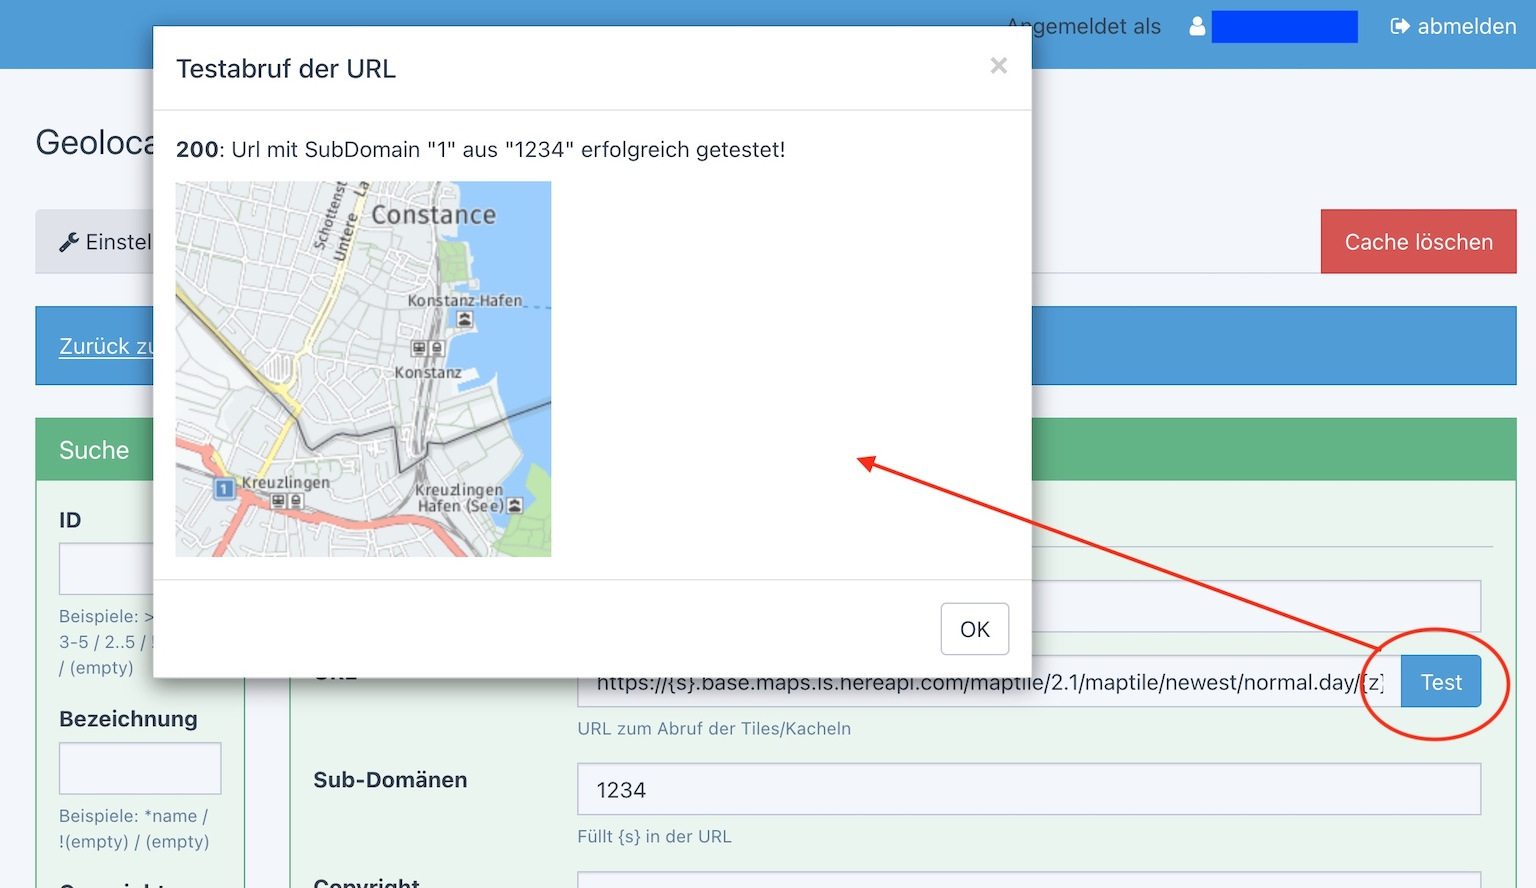
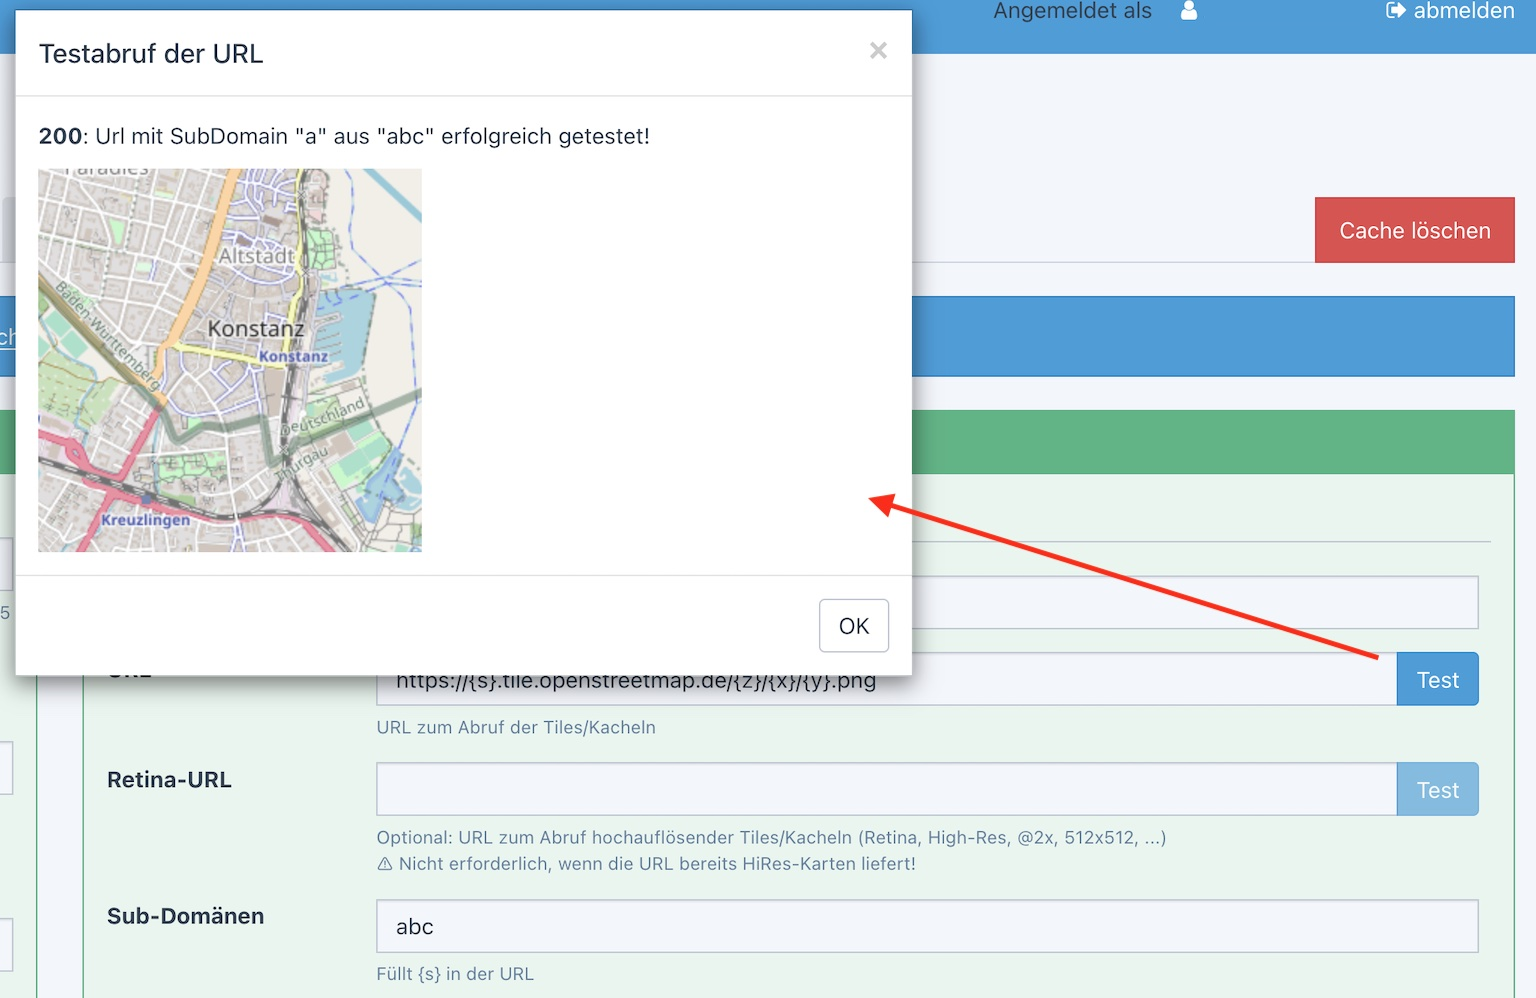
Zusätzliche Retina-URL (#118)
* Zweite URL (Retina)

* Zweite URL (Retina)

* Zweite URL (Retina)

* Zweite URL (Retina)

* Zweite URL (Retina)

* Zweite URL (Retina)

* Zweite URL (Retina)

* Update CHANGELOG.md

diff --git a/install/geolocation.js b/install/geolocation.js
@@ -250,8 +250,8 @@ Geolocation.Classes.Map = class {
         if( 0 == layerNames.length ) return;
 
         // Layer einfügen
-        // NOTE: hier wird jetzt nicht mehr geprüft, ob es mindestens eine 
-        // Karte gibt, die "active" gesetzt ist.
+        // NOTE: hier wird jetzt nicht mehr geprüft, ob es mindestens eine Karte gibt, die "active" gesetzt ist.
+        // NOTE: hier auch nicht geprüft, ob es mindestens eine (Basis-)karte gibt.
         let layer, label, layertype, tile, geolayer, active;
         if( layerNames.length > 1 ) this.layerControl.addTo( this.map );
         for( tile in mapset ){
@@ -261,7 +261,7 @@ Geolocation.Classes.Map = class {
             delete mapset[tile].layer;
             layertype = mapset[tile].type || 'b';
             delete mapset[tile].type;
-            layer = L.tileLayer( `index.php?${Geolocation.default.keyLayer}=${geolayer}&z={z}&x={x}&y={y}`,mapset[tile] );
+            layer = L.tileLayer( `index.php?${Geolocation.default.keyLayer}=${geolayer}&z={z}&x={x}&y={y}&r={r}`,mapset[tile] );
             active = true === mapset[tile].active;
             delete mapset[tile].active;
             if( active ) {

diff --git a/lib/yform/dataset/Layer.php b/lib/yform/dataset/Layer.php
@@ -59,6 +59,7 @@ use rex_yform_value_abstract;
 
 use function count;
 use function is_bool;
+use function is_string;
 use function strlen;
 
 /**
@@ -67,6 +68,7 @@ use function strlen;
  * aus der Datentabelle rex_geolocation_layer
  * @property string $name
  * @property string $url
+ * @property string $retinaurl
  * @property string $subdomain
  * @property string $attribution
  * @property string $layertype
@@ -83,7 +85,7 @@ class Layer extends rex_yform_manager_dataset
      *
      * @api
      */
-    public const FILE_PATTERN = '{x}-{y}-{z}.{suffix}';
+    public const FILE_PATTERN = '{x}-{y}-{z}-{r}.{suffix}';
 
     // dataset-spezifisch
 
@@ -241,7 +243,7 @@ class Layer extends rex_yform_manager_dataset
      * Angabe von Subdomains ohne {s} in der Url ist egal
      *
      * Die Parameter sind so belegt:
-     *  - Array mit den Feldnamen ('url', 'subdomain')
+     *  - Array mit den Feldnamen
      *  - Array mit den aktuellen Werten für 'url' und 'subdomain'
      *  - Rückgabewert als Vorbelegung (sollte leer sein), ignorieren
      *  - Instanz der aktiven Validator-Klasse
@@ -255,7 +257,13 @@ class Layer extends rex_yform_manager_dataset
      */
     public static function verifySubdomain($fields, $values, $return, $self, $elements): bool
     {
-        return false !== strpos($values['url'], '{s}') && '' === trim($values['subdomain']);
+        $urlFieldName = $fields[0];
+        $subdomainFieldName = $fields[1];
+
+        $urlValue = trim($values[$urlFieldName]);
+        $subdomainValue = trim($values[$subdomainFieldName]);
+
+        return false !== strpos($urlValue, '{s}') && '' === $subdomainValue;
     }
 
     /**
@@ -277,8 +285,12 @@ class Layer extends rex_yform_manager_dataset
      */
     public static function verifyUrl($field, $value, $return, $self, $elements): bool
     {
+        $url = trim($value);
+        if ('' === $url) {
+            return false;
+        }
         $url = str_replace(['{', '}'], '', $value);
-        $xsRegEx_url = '/^(?:http[s]?:\/\/)[a-zA-Z0-9][a-zA-Z0-9._-]*\.(?:[a-zA-Z0-9][a-zA-Z0-9._-]*\.)*[a-zA-Z]{2,20}(?:\/[^\\/\:\*\?\"<>\|]*)*(?:\/[a-zA-Z0-9_%,\.\=\?\-#&@]*)*$' . '/';
+        $xsRegEx_url = '/^(?:http[s]?:\/\/)[a-zA-Z0-9][a-zA-Z0-9._-]*\.(?:[a-zA-Z0-9][a-zA-Z0-9._-]*\.)*[a-zA-Z]{2,20}(?:\/[^\\/\:\*\?\"<>\|]*)*(?:\/[a-zA-Z0-9_%,\.\=\?\-#&@]*)*$/';
         return 0 === preg_match($xsRegEx_url, $url);
     }
 
@@ -416,6 +428,10 @@ class Layer extends rex_yform_manager_dataset
         if (null !== $zoom) {
             $fileNameElements['{z}'] = $zoom;
         }
+        $retina = rex_request('r', 'string', null);
+        if (null !== $retina) {
+            $fileNameElements['{r}'] = $retina;
+        }
 
         // prepare targetCacheDir-Name
         $cacheDir = rex_path::addonCache(ADDON, $layer->getId().'/');
@@ -438,7 +454,12 @@ class Layer extends rex_yform_manager_dataset
 
         // no cache or no cached file found; retrieve from tile-server and store in cache-dir
         // Prepare the tile-URL and fetch the tile
-        $url = str_replace(array_keys($fileNameElements), $fileNameElements, $layer->url);
+        if ('' < $retina && '' < $layer->retinaurl) {
+            $url = $layer->retinaurl;
+        } else {
+            $url = $layer->url;
+        }
+        $url = str_replace(array_keys($fileNameElements), $fileNameElements, $url);
 
         $ch = curl_init($url);
         if (is_bool($ch)) {
@@ -567,23 +588,21 @@ class Layer extends rex_yform_manager_dataset
      * Aus welchem Grunde auch immer werden teilweise Werte, die in der DB integer sind,
      * tatsächlich im internen Array $data als String vorgehalten und demnach auch von
      * parent::getValue als String ausgeliefert.
-     * 
+     *
      * Ist leider keine Kleinigkeit bei striker Typ-Prüfung (z.B. 1 === getValue('online')
-     * 
+     *
      * Hier werden die Werte vor der Nutzung in int umgewandelt
-     * 
-     * TODO: Testcase bauen und Issue aufmachen 
+     *
+     * TODO: Testcase bauen und Issue aufmachen
      *
      * @return mixed
      */
     public function getValue(string $key)
     {
         $value = parent::getValue($key);
-        if( is_string($value) && ('ttl' === $key || 'cfmax' === $key || 'online' === $key) ) {
+        if (is_string($value) && ('ttl' === $key || 'cfmax' === $key || 'online' === $key)) {
             $value = (int) $value;
         }
         return $value;
     }
-
-
 }

diff --git a/lib/api_testurl.php b/lib/api_testurl.php
@@ -46,6 +46,7 @@ class rex_api_geolocation_testurl extends rex_api_function
         '{y}' => 5718,
         '{z}' => 14,
         '{s}' => '',
+        '{r}' => '@2x',
     ];
 
     /**
@@ -63,7 +64,7 @@ class rex_api_geolocation_testurl extends rex_api_function
             case self::TILE_URL:
                 $this->ensurePermission('geolocation[layer]');
                 $this->testTileUrl();
-                break;
+                //break;
         }
 
         /**

diff --git a/install.php b/install.php
@@ -81,6 +81,7 @@ try {
         ->ensurePrimaryIdColumn()
         ->ensureColumn(new rex_sql_column('name', 'varchar(191)'))
         ->ensureColumn(new rex_sql_column('url', 'text'))
+        ->ensureColumn(new rex_sql_column('retinaurl','text'))
         ->ensureColumn(new rex_sql_column('subdomain', 'varchar(191)'))
         ->ensureColumn(new rex_sql_column('attribution', 'text'))
         ->ensureColumn(new rex_sql_column('lang', 'text'))

diff --git a/docs/layer.md b/docs/layer.md
@@ -64,12 +64,22 @@ Hintergrund benutzt. Details und weitere Beispiele finden sich in den [Entwickle
     markiert. Sofern der Anbieter URLs mit Sub-Domänen verarbeitet, wird die entsprechende
     Stelle mit `{s}` markiert.
 
+    Sofern die URL die Apple-Notation für Retina-URLs (`@2x`) unterstützt, kann die Position in der URL mit `{r}`
+    markiert werden. Dadurch wird automatisch die jeweils für den Browser passende Version benutzt.
+
     Der Test-Button ermöglicht den direkten Test der eingegebenen Url. Sofern die eingegebene Url
     formal grundlegend korrekt ist und - falls erforderlich - die Sub-Domänen angegeben sind, wird der
     Button aktiviert. Klick auf den Button sendet die Feldinhalte zum Server, der als Proxy die eigentliche
     Abfrage mit Test-Koordinaten (Konstanz am Bodensee) beim Kartenanbieter durchführt. Das Ergebnis wird
     wird in einem modalen Fenster angezeigt.
     ![Url-Test](assets/tiles_test.jpg)
+
+- **Retina-URL**
+    Falls die Standard-URL die Apple-Notation nicht unterstützt, kann in diesem Feld eine zusätzliche
+    Retina-URL angegeben werden. Je nach Anbieter haben URLs z.B. 256 als Standard-Auflösung in der URL
+    stehen und 512 für hochauflösende Tiles.
+
+    Wenn bereits die Standard-Karte hoch auflösend ist, sollte keine zusätzliche Retina-Url angegeben werden.
 
 - **Sub-Domänen**  
     Die Sub-Domänen sind einzelne Ziffern oder Buchstaben, die als Zeichenfolge eingegeben werden.

diff --git a/README.md b/README.md
@@ -89,8 +89,9 @@ Details - auch zu individualisierten Installationen - stehen in der [Installatio
 
 ## OSMProxy ersetzten
 OSM-Proxy-Nutzer müssen im Abschnitt Karten die gewünschten Tileserver hinterlegen und im Anschluss die URL für die Tiles im z.B. Leaflet JS ändern.
-/index.php?geolayer=ID&x={x}&y={y}&z={z}
-(ID steht für die ID der gewünschten Karte)
+```
+/index.php?geolayer=«id»&x={x}&y={y}&z={z}&r={r}
+```(«id» steht für die Datensatz-ID der gewünschten Karte)
 
 
 ## Beispielmasken:
@@ -164,19 +165,22 @@ kartensatz = [
         "layer":"1",
         "label":"Karte",
         "type" :"b",
-        "attribution":"Map Tiles &copy; 2020 <a href=\"http:\/\/developer.here.com\">HERE<\/a>"
+        "attribution":"Map Tiles &copy; 2020 <a href=\"http:\/\/developer.here.com\">HERE<\/a>",
+        "active": true,
     },
     {
         "layer":"2",
-        "label":"Satelit",
+        "label":"Satellit",
         "type" :"b",
         "attribution":"Map Tiles &copy; 2020 <a href=\"http:\/\/developer.here.com\">HERE<\/a>"
+        "active": false,
     },
     {
         "layer":"3",
         "label":"Hybrid",
         "type" :"b",
         "attribution":"Map Tiles &copy; 2020 <a href=\"http:\/\/developer.here.com\">HERE<\/a>"
+        "active": false,
     }
 ]
 ```

diff --git a/CHANGELOG.md b/CHANGELOG.md
@@ -37,7 +37,8 @@ Bearbeitung mit RexStan und Bereinigung diverser Fehler. Das alles führt zu ein
   - Individuelles CSS (`redaxo/data/geolocation/geolocation.css') kann auch in SCSS-Dateien stehen (Editor-freundlich) (#104)
   - Für Basiskarten im Kartensatz/Mapset kann die aktive Karte unabhängig von der Reihenfolge (bisher immer die erste) per Radio-Button aktiviert werden (#107)
   - Für Overlay-Karten im Kartensatz/Mapset können sofort sichtbare Overlays aktiviert werden (Checkbox); bisher waren die Karten immer initial ausgeblendet (#107, #115)
-  - Karten-URLs nun auch mit @-Zusatz möglich (by @xong Robert Rupf) (#110)
+  - Karten-URLs nun auch mit @2x-Zusatz möglich (by @xong Robert Rupf) (#110)
+  - Retina-Unterstützung: Parameter `{r}` als Platzhalter für `@2x`-Kartenanforderung; zusätzliche URL für HiRes-Karten/Retina-Karten-URLs ohne '@2x'-support. (#118)  
 
 ## 06.05.2022 1.0.2
 

diff --git a/docs/proxy_cache.md b/docs/proxy_cache.md
@@ -64,11 +64,11 @@ werden. Die URL unterscheiden sich nur über die Datensatznummer, unter der die 
 [Karten-Verwaltung](layer.md) erfasst wurde.
 
 ```html
-index.php?geolayer=«id»&x={x}&y={y}&z={z}
+index.php?geolayer=«id»&x={x}&y={y}&z={z}&r={r}
 ```
 oder
 ```html
-?geolayer=«id»&x={x}&y={y}&z={z}
+?geolayer=«id»&x={x}&y={y}&z={z}&r={r}
 ```
 
 Erkennt die `boot.php` von **Geolocation** den URL-Parameter `geolayer` wird versucht, die
